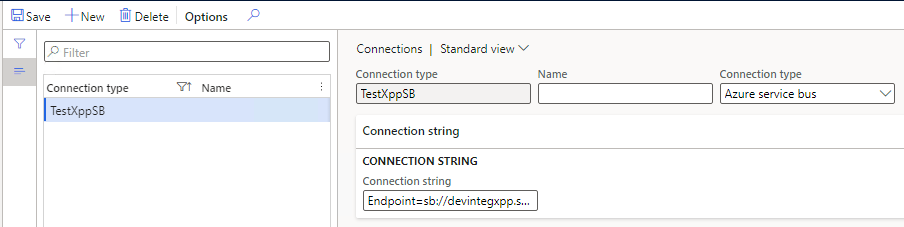
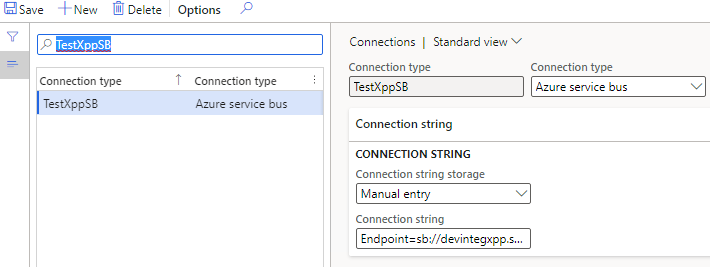
serv bus

Changed region(s): [[0.0, 0.0, 1.0, 1.0], [0.3718, 0.5242, 1.0, 0.7709], [0.3718, 0.7709, 0.7437, 0.9868]]

diff --git a/src/draft/xpptools-integservbussalesjson/index.md b/src/draft/xpptools-integservbussalesjson/index.md
@@ -1,6 +1,6 @@
 ---
 title: "How to implement Azure Service Bus integration in Dynamics 365 FinOps using X++"
-date: "2020-12-17T22:12:03.284Z"
+date: "2021-10-27T22:12:03.284Z"
 tags: ["XppDEVTutorial", "Integration"]
 path: "/xpptools-integservbussalesjson"
 featuredImage: "./logo.png"
@@ -8,7 +8,7 @@ featuredImage: "./logo.png"
 excerpt: "The blog post describes a sample approach to implement Azure Service Bus integration in D365FO using X++"
 ---
 
-This post is an extension of my previous post [How to implement file-based integration in Dynamics 365 FinOps using X++](https://denistrunin.com/xpptools-fileintegledger) but with another media to transfer messages. As file-based aproach still may work for a lot of cases, in a cloud world we have a lot of others, more fancy ways to transfer messages. In this post I will describe how to use Azure Service Bus to do a custom X++ based intergation.
+This post is an extension of my previous post [How to implement file-based integration in Dynamics 365 FinOps using X++](https://denistrunin.com/xpptools-fileintegledger) but with another media to transfer messages. As file-based aproach still may work for a lot of cases, in a cloud world we have a lot of others, more fancy ways to transfer messages. In this post I will describe how to use **Azure Service Bus** to do a custom X++ based intergation.
 
 Azure Service Bus is a cloud-based messaging service providing queues with publish/subscribe semantics and rich features. This is a fully managed service with no servers to manage or licenses to buy.
 
@@ -25,7 +25,7 @@ The pricing for Service Bus starts from 10USD per month for 12M operations.
 
 ### Setting up Azure service bus
 
-In order to setup a new service bus we need to create a new Service Bus resource is Azure portal and setup a new Queue for incoming messages.
+In order to setup a new service bus we need to create a new **Service Bus** resource is Azure portal and setup a new Queue for incoming messages.
 
 ![Service Bus Queue](ServiceBusQueue.png)
 
@@ -80,13 +80,14 @@ In the following section, I provide some code samples that can be used as a star
 
 ### Connection types form
 
-Connection types form allow to specify Connection type resource(currently 2 resources are supported - Azure file share and Azure service bus) and connection details for the selected resource
+**Connection types** form allow to specify Connection type resource(currently 2 resources are supported - Azure file share and Azure service bus) and connection details for the selected resource
 
 ![Connection types](ConnectionTypesForm.png)
 
-Notes:
+For storing connection string there can be 2 options:
 
-1. Instead of storing Connection details in a D365FO table,a more secure solution is to create an **Azure Key Vault** and put all secrets into it(for example like [this](https://jatomas.com/en/2020/06/02/azure-key-vault-msdyn365fo-setup-certificates-passwords/)) and store a reference to this Key Vault in our new Connection table.
+- Enter the value in this form
+- Store the connection string value as a Secret in the **Azure Key Vault**. In this case user need to provide a reference to the standard Key Vault name (steps to setup it described in [this](https://jatomas.com/en/2020/06/02/azure-key-vault-msdyn365fo-setup-certificates-passwords/) post).
 
 ### Inbound message types form
 
@@ -163,7 +164,9 @@ It connects to the Service Bus, reads messages(with Peek&Delete type), creates a
 
 Message processing may be executed as a separate operation - **Process incoming messages** that selects all not processed messages and calls the processing class for them.
 
-The logic of how to process the file is different per message type/class. For the simple scenario, the class can just read the file content and create some data in one transaction. For this blog post, I implemented two step processing. See the sample diagram below:
+![Process messages](ProcessIncomingMessages.png)
+
+The logic of how to process the file is different per message type/class. For the simple scenario, the class can just read the messagecontent and create some data in one transaction. For this blog post, I implemented two step processing. See the sample diagram below:
 
 ![Process diagram](ProcessDiagram.png)
 
@@ -172,95 +175,61 @@ The logic of how to process the file is different per message type/class. For th
 During the first step, the class reads the file and writes data into a staging table. A sample code for this:
 
 ```c#
-    while (fileReader.readNextRow())
-    {
-        linesStaging.clear();
-        lineNum++;
-        linesStaging.LineNumber     = lineNum;
-        linesStaging.HeaderRefRecId = tutorialLedgerJourHeaderStaging.RecId;
-        linesStaging.MainAccount  = fileReader.getStringByName('MainAccount');
-        linesStaging.BusinessUnit = fileReader.getStringByName('BusinessUnit');
-        linesStaging.Department   = fileReader.getStringByName('Department');
-        linesStaging.CostCenter   = fileReader.getStringByName('CostCenter');
-        linesStaging.Amount       = fileReader.getRealByName('Amount');
-        DEV::validateWriteRecordCheck(tutorialLedgerJourLinesStaging);
-        tutorialLedgerJourLinesStaging.insert();
-    }
+tutorialSOHeaderContract = FormJsonSerializer::deserializeObject(classNum(DEVIntegTutorialSOHeaderContract), serializedJSONstr);
+
 ```
 
-Then based on this staging data values, a new journal is created. As I wrote in this [post](https://denistrunin.com/xpptools-createledgerjournal/) there are two options to create a ledger journal: either using **LedgerJournalEngine** class or using a data entity. The choice between these two should be made by answering the question: if the user wants to create the same journal manually, does he use manual entry or data import?. In this case, I want the result to be similar to manual entry, so **LedgerJournalEngine** class is used.
+Then based on this staging data values, a new sales order is created. This creating can be done using data entities or just directly writing to tables using 
 
 ```c#
-ledgerJournalTrans.AccountType          =   LedgerJournalACType::Ledger;
-ledgerJournalTrans.modifiedField(fieldNum(LedgerJournalTrans, AccountType));
-
-DimensionDefault  dim;
-dim = DEVDimensionHelper::setValueToDefaultDimensionCon(dim,
-  [DEVDimensionHelper::BusinessUnit(), tutorialLedgerJourLinesStaging.BusinessUnit,
-   DEVDimensionHelper::Department(),   tutorialLedgerJourLinesStaging.Department,
-   DEVDimensionHelper::CostCenter(),   tutorialLedgerJourLinesStaging.CostCenter ] );
-
-ledgerJournalTrans.LedgerDimension = LedgerDimensionFacade::serviceCreateLedgerDimension(
-  LedgerDefaultAccountHelper::getDefaultAccountFromMainAccountId(tutorialLedgerJourLinesStaging.MainAccount), dim);
-
-ledgerJournalTrans.modifiedField(fieldNum(LedgerJournalTrans, LedgerDimension));
-ledgerJournalEngine.accountModified(LedgerJournalTrans);
-....
-ledgerJournalTrans.insert();
+salesLine.initValue();
+salesLine.ItemId = salesLineStaging.ItemId;
+salesLine.initFromSalesTable(salesTable);
+salesLine.initFromInventTable(InventTable::find(salesLine.ItemId));
+salesLine.SalesQty              = salesLineStaging.SalesQty;
+salesLine.QtyOrdered            = SalesLine.calcQtyOrdered();
+salesLine.SalesDeliverNow       = salesLine.SalesQty;
+salesLine.setInventDeliverNow();
+...
+salesLine.createLine(true,false,false,true);
 ```
 
 After the journal creation, this class runs journal posting.
 
 ## Error types and how to handle them
 
-It is not a big task to create a journal based on a file. The complexity of integration is often related to exception processing and error monitoring. Let's discuss typical errors and how users can deal with them.
+It is not a big task to create a sales order based on a file. The complexity of integration is often related to exception processing and error monitoring. Let's discuss typical errors and how users can deal with them.
 
-### File share connection errors
+### Connection errors
 
-If our batch job can't connect to a File share or read and move files, a batch job exception will be generated. It is a configuration error and it requires system administrator attention. Notification will be done using a batch job status. After troubleshooting the error system administrator can use the **"Test connection"** button to validate that the system can now connect to the file share.
+If our batch job can't connect to a Service Bus or read messages, a batch job exception will be generated. It is a configuration error and it requires system administrator attention. Notification will be done using a batch job status. After troubleshooting the error system administrator can use the **"Test connection"** button to validate that the system can now read messages from the Service Bus.
 
 ![Test connection](TestConnection.png)
 
 ### File format errors
 
-The next error type is a wrong file format, so we can't even read the file content.
+The next error type is a wrong file format, so we can't even read the key data from the message 
 
-To test this case I renamed one of the columns
-
-![Wrong column](WrongColumn.png)
-
-After the import users will see this file with the Error status. Notification can be done using standard filtering by the **Status** column.
+To test this case I renamed several columns. After the import users will see this message with the Error status. Notification can be done using standard filtering by the **Status** column.
 
 ![Wrong column error](WrongColumnError.png)
 
-Users can view the error log, then download the file and check the reason for this error. There may be two reasons:
+Users can view the error log, then download the message and check the reason for this error. There may be two reasons:
 
-- Our code that reads the file is wrong. In this case, we can send this file example to a developer to fix the logic. After fixing the problem we can run the Processing again.
-- External system sent a file in the wrong format. In this case, the user can send this file back to the external party, then change the message status to **Hold**.
+- Our code that reads the message is wrong. In this case, we can send this message example to a developer to fix the logic. The main advantage of this solution is that developer can run processing without Service Bus by using the **Import message** button .  After fixing the problem we can run the Processing again.
+- External system sent a message in the wrong format. In this case, the user can send this file back to the external party, then change the message status to **Hold**.
 
 ### Data errors
 
-The file has a correct structure but contains a wrong data(e.g.. values that don't exist)
-
-![Wrong data](WrongData.png)
-
-In this case, a Status of our Message will be **Error** and an Error log will be generated.
+The message has a correct structure but contains a wrong data(e.g.. values that don't exist). In this case, a Status of our Message will be **Error** and an Error log will be generated.
 
 ![Wrong Data Error](WrongDataError.png)
 
-Users can view this error, display a Staging data to check the values from the File and take some actions(e.g. create missing values in the related tables if they are valid). After that, they can Process this message again.
+Users can view this error, display a **Staging data** to check the values from the message and take some actions(e.g. create missing values in the related tables if they are valid). After that, they can Process this message again.
 
 ![Staging error](WrongDataErrorStaging.png)
 
-In some implementations(EDI), we can even allow staging data editing.
-
-### Posting errors
-
-A similar type of error is a posting error. For example, in a current implementation if the journal is not balanced the error will be generated and the message gets the **Error** status:
-
-![Posting error](WrongDataPosting.png)
-
-A possible variation to this approach is to create a document(journal in our case), try to post it, and even if posting fails, still set the message Status to **Processed** and leave the journal unposted, allowing accountants to decide what to do with it. As we don't process in transaction this will be a simple modification for our process class.
+In some implementations(EDI), we can even allow staging data editing. A similar type of error is a posting error. 
 
 ### Wrong result errors
 
@@ -283,7 +252,5 @@ I provided a sample implementation for a File-based integration for D365FO. The 
 This may or may not be appropriate in your case(there are different options how to implement this). Anyway I recommend to use the following checklist while designing the integration: [Integration solution specification](https://github.com/TrudAX/TRUDScripts/blob/master/Documents/Integration/Integration%20Data%20Flow%20Requirements.md)
 
 I uploaded files used for this post to the following [folder](https://github.com/TrudAX/XppTools#devtutorialintegration-submodel)
-
-Another important question when you implement a solution like this: is how fast will be your integration. I wrote about sample steps for performance testing in the following post: [D365FO Performance. Periodic import of one million ledger journal lines](https://denistrunin.com/xpptools-fileintegledgerperf/) 
 
 I hope you find this information useful. As always, if you see any improvements, suggestions or have some questions about this work don't hesitate to contact me.
